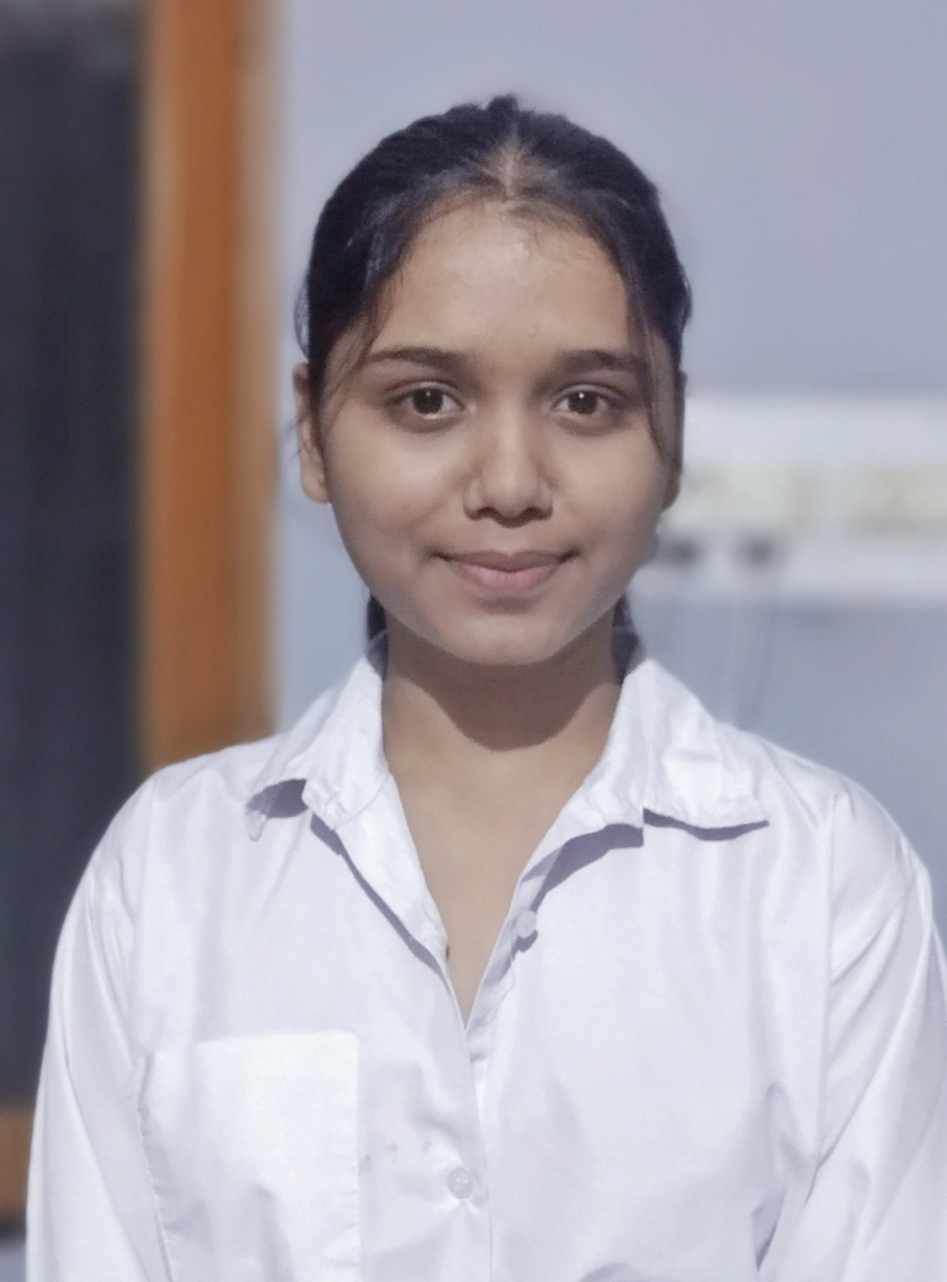
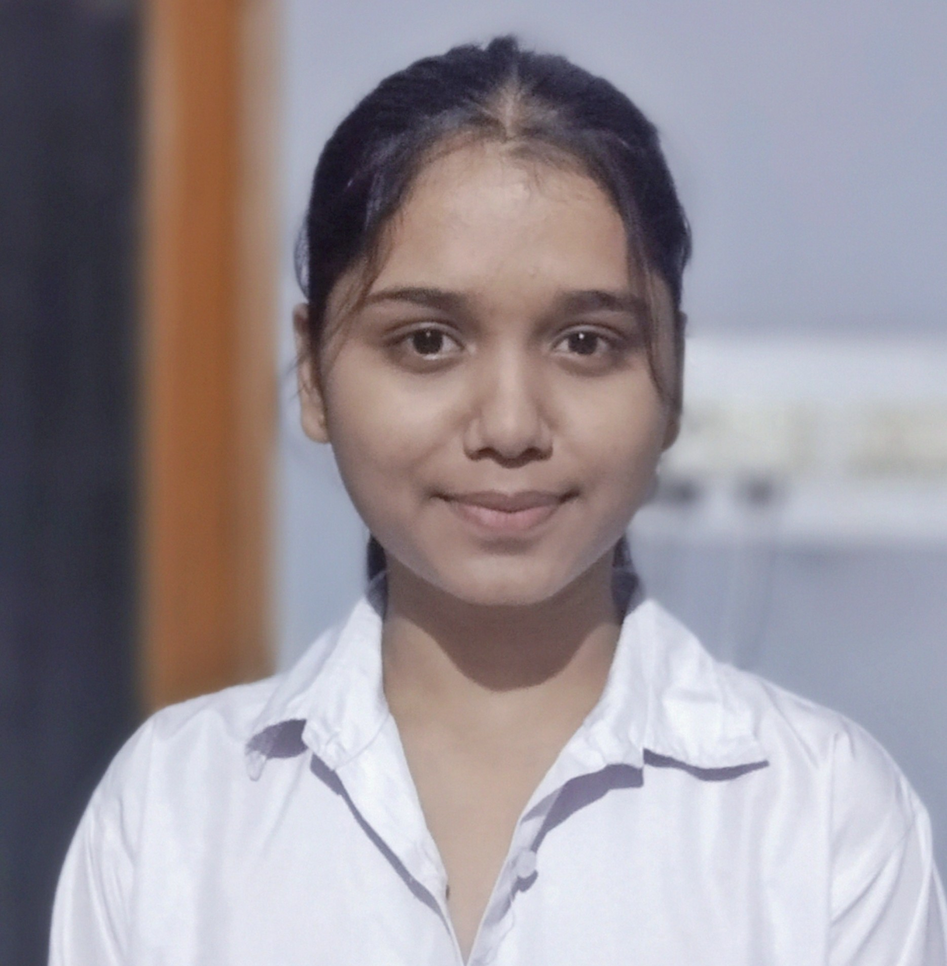
"Updated images and team members' information in entrepreneurship club, mediafusion, and our team pages."

diff --git a/pages/Clubs Pages/entrepreneurship club.html b/pages/Clubs Pages/entrepreneurship club.html
@@ -141,6 +141,8 @@
         }
         .heading{
             font-size: 18px;
+            padding: 10px;
+            
 
         }
         .span{
@@ -237,19 +239,19 @@
 
     <div class="club-bearer-card">
         <div class="club-bearer-card-content">
-            <img class="image" src="/image folder/CULTURAL & EvENT.jpg" alt="dheeraj thakare">
-            <h1 class="heading">UJJWAL MISHRA</h1>
+            <img class="image" src="/image folder/ENTREpRENEURSHIp.jpg" alt="dheeraj thakare">
+            <h1 class="heading">Shurbi Sahu</h1>
             <span class="span">CO-ORDINATOR</span>
         </div>
 
         <div class="club-bearer-card-content">
-            <img class="image" src="/image folder/CULTURAL & EvENT.jpg" alt="dheeraj thakare">
+            <img class="image" src="/image folder/club members/Picsart_24-10-31_10-32-18-665 - Mritunjay Shrivastava.jpg" alt="MITRUNJAY Shrivastava">
             <h1 class="heading">MITRUNJAY SHRIVASTAV</h1>
             <span class="span">SECERATRY</span>
         </div>
 
         <div class="club-bearer-card-content">
-            <img class="image" src="/image folder/CULTURAL & EvENT.jpg" alt="dheeraj thakare">
+            <img class="image" src="/image folder/club members/Palak Bhargav.jpg" alt="Palak Bhargav">
             <h1 class="heading">PALAK BHARGAV</h1>
             <span class="span">ASST. SECERATRY</span>
         </div>

diff --git a/pages/OurTeam.html b/pages/OurTeam.html
@@ -175,9 +175,9 @@
             <p>Assistant Chief Committee Officer</p>
           </div>
           <div class="team-member">
-            <img src="/image folder/Student council png.png" alt="Priyanshu Patel">
-            <h3>Priyanshu Patel</h3>
-            <p>Club Editor</p>
+            <img src="/image folder/club members/vedant - Vedant Singh.jpg" alt="Vedant Singh">
+            <h3>Vedant Singh</h3>
+            <p>Academic Council Officer</p>
           </div>
           <div class="team-member">
             <img src="/image folder/club members/Harsh Raj Singh.jpg" alt="Harsh Raj Singh">
@@ -190,9 +190,9 @@
             <p>Public Relationship Officer</p>
           </div>
           <div class="team-member">
-            <img src="/image folder/club members/vedant - Vedant Singh.jpg" alt="Vedant Singh">
-            <h3>Vedant Singh</h3>
-            <p>Academic Council Officer</p>
+            <img src="/image folder/Student council png.png" alt="Priyanshu Patel">
+            <h3>Priyanshu Patel</h3>
+            <p>Club Editor</p>
           </div>
           <div class="team-member">
             <img src="/image folder/club members/IMG20240627163440 - Laher Chouksey.jpg" alt="Laher Choukse">

diff --git a/pages/Clubs Pages/mediafusion.html b/pages/Clubs Pages/mediafusion.html
@@ -238,19 +238,19 @@
 
     <div class="club-bearer-card">
         <div class="club-bearer-card-content">
-            <img class="image" src="/image folder/Media Fusion.jpg" alt="Pratul kumar">
+            <img class="image" src="/image folder/club members/pratul kumar.jpg" alt="Pratul kumar">
             <h1 class="heading">Pratul Kumar </h1>
             <span class="span">CO-ORDINATOR</span>
         </div>
 
         <div class="club-bearer-card-content">
-            <img class="image" src="/image folder/Media Fusion.jpg" alt="Shivam choubey">
+            <img class="image" src="/image folder/club members/IMG-20241031-WA0009 - SHIVAM CHOUBEY.jpg" alt="Shivam choubey">
             <h1 class="heading">Shivam Choubey </h1>
             <span class="span">SECERATRY</span>
         </div>
 
         <div class="club-bearer-card-content">
-            <img class="image" src="/image folder/Media Fusion.jpg" alt="Susma Namdeo">
+            <img class="image" src="/image folder/club members/susma namdeo.jpg" alt="Susma Namdeo">
             <h1 class="heading">Susma Namdeo</h1>
             <span class="span">ASST. SECERATRY</span>
         </div>
